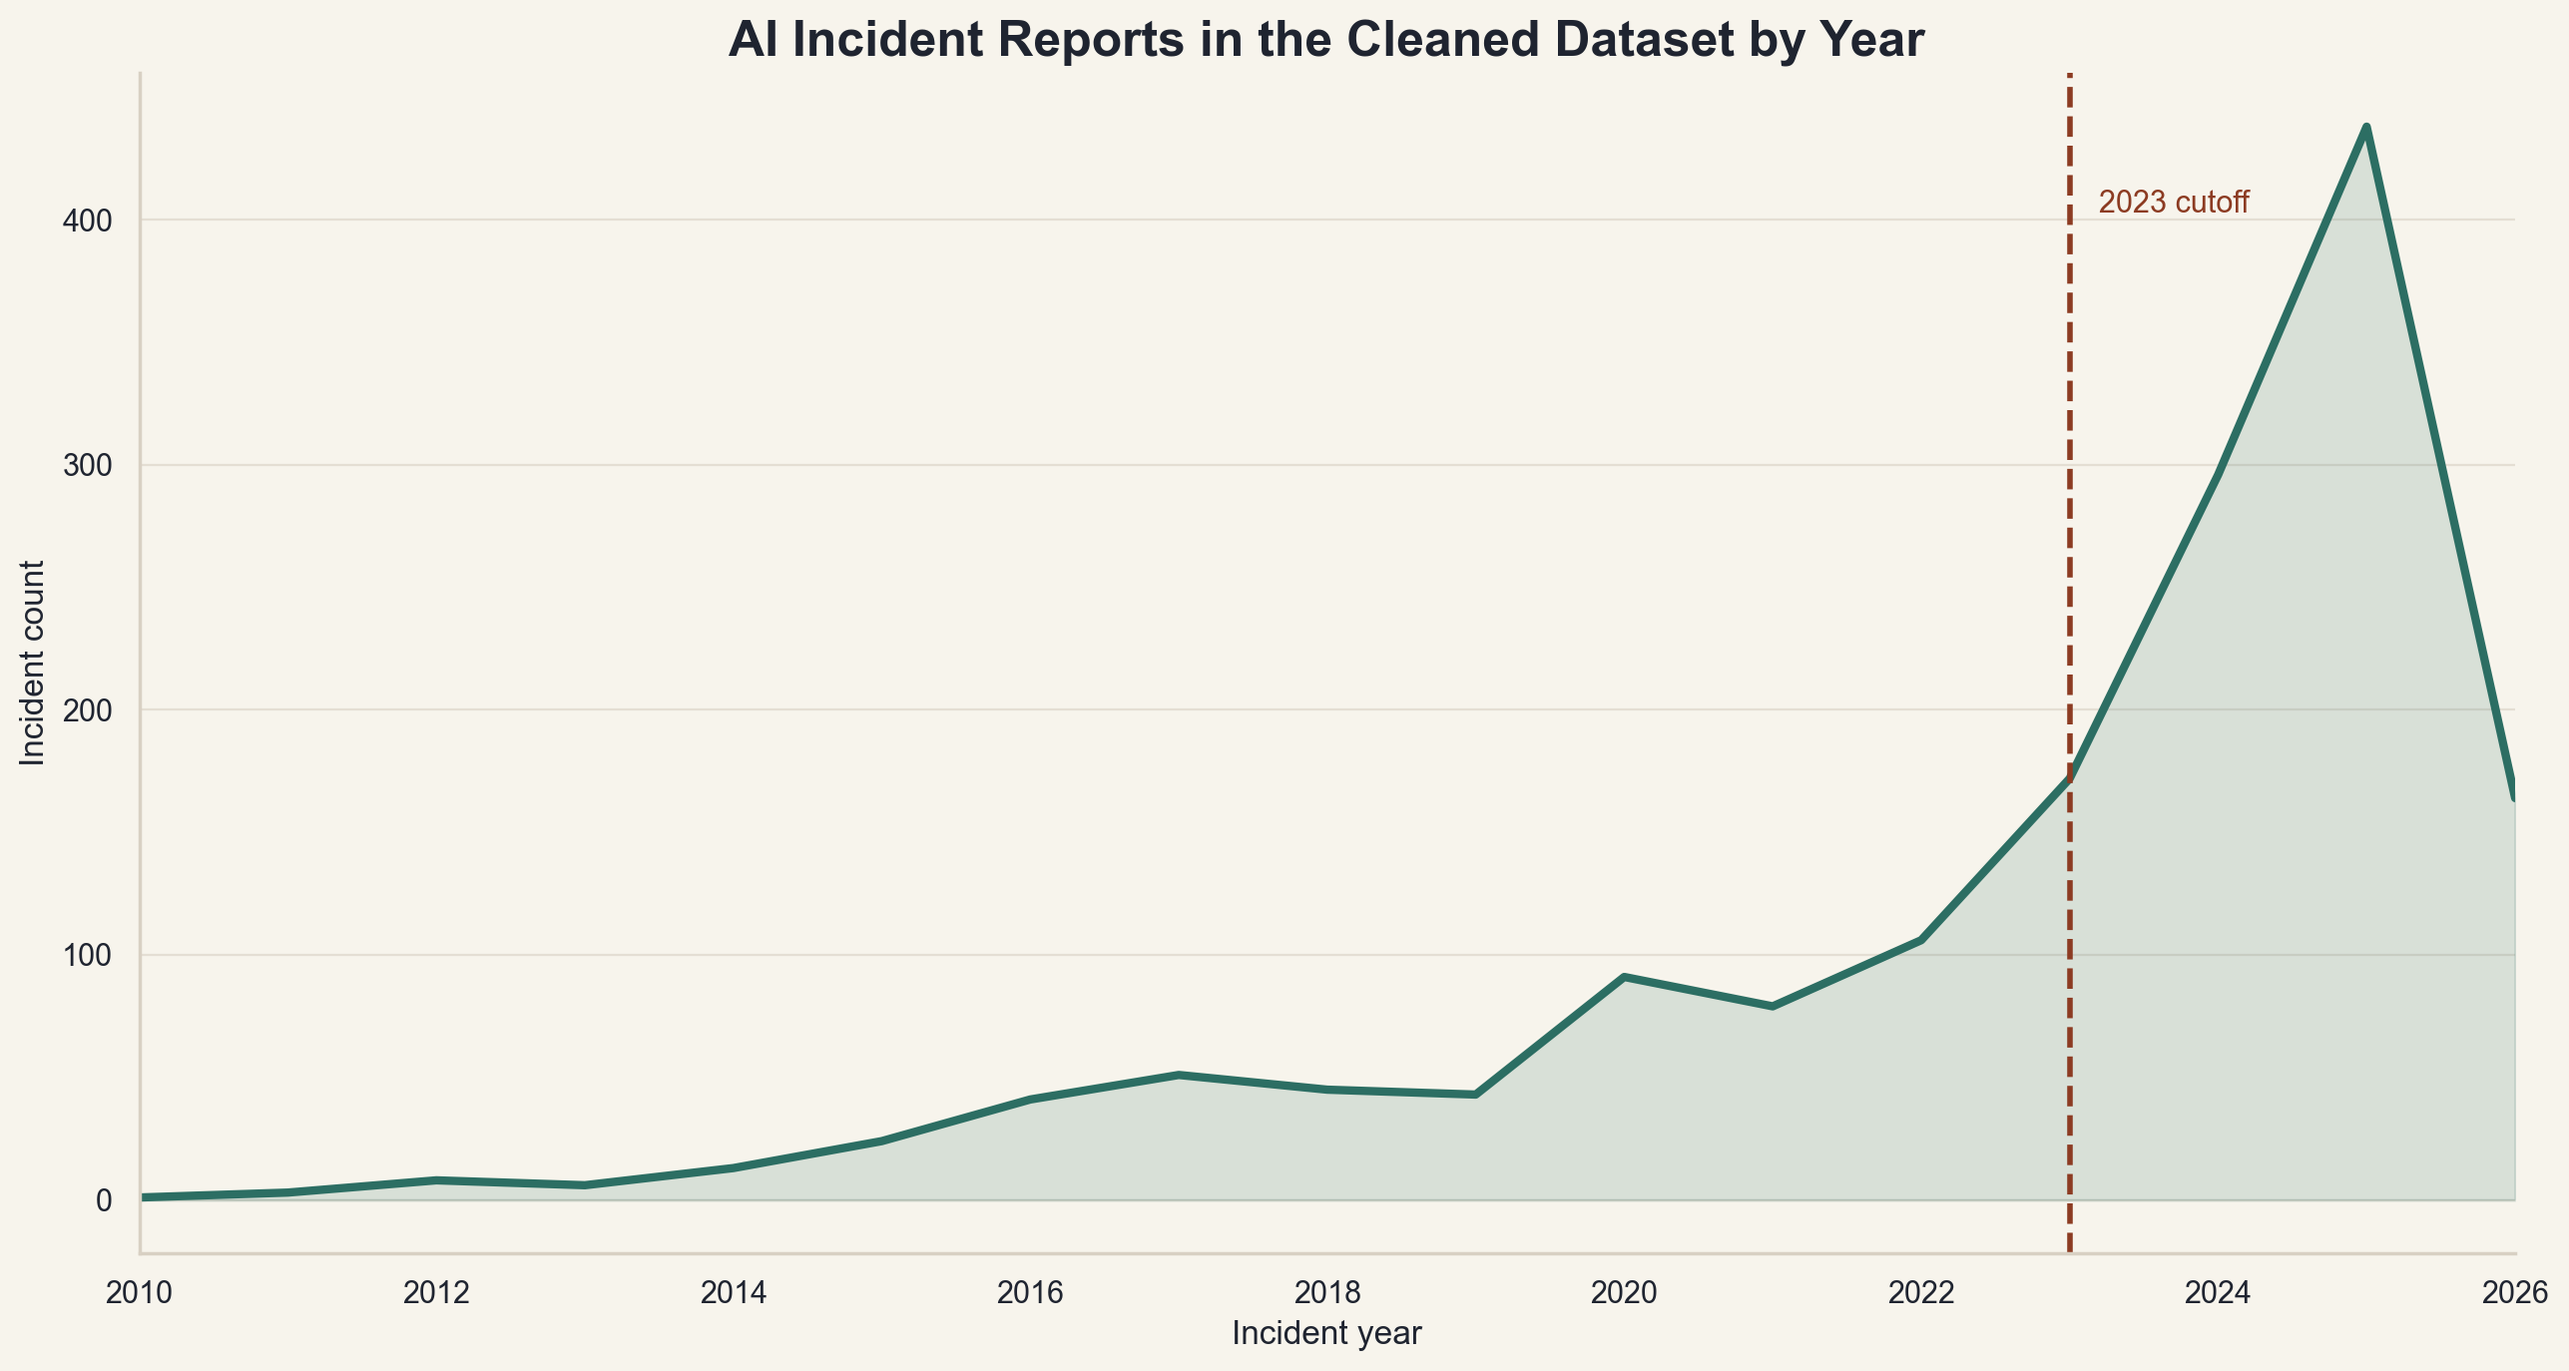
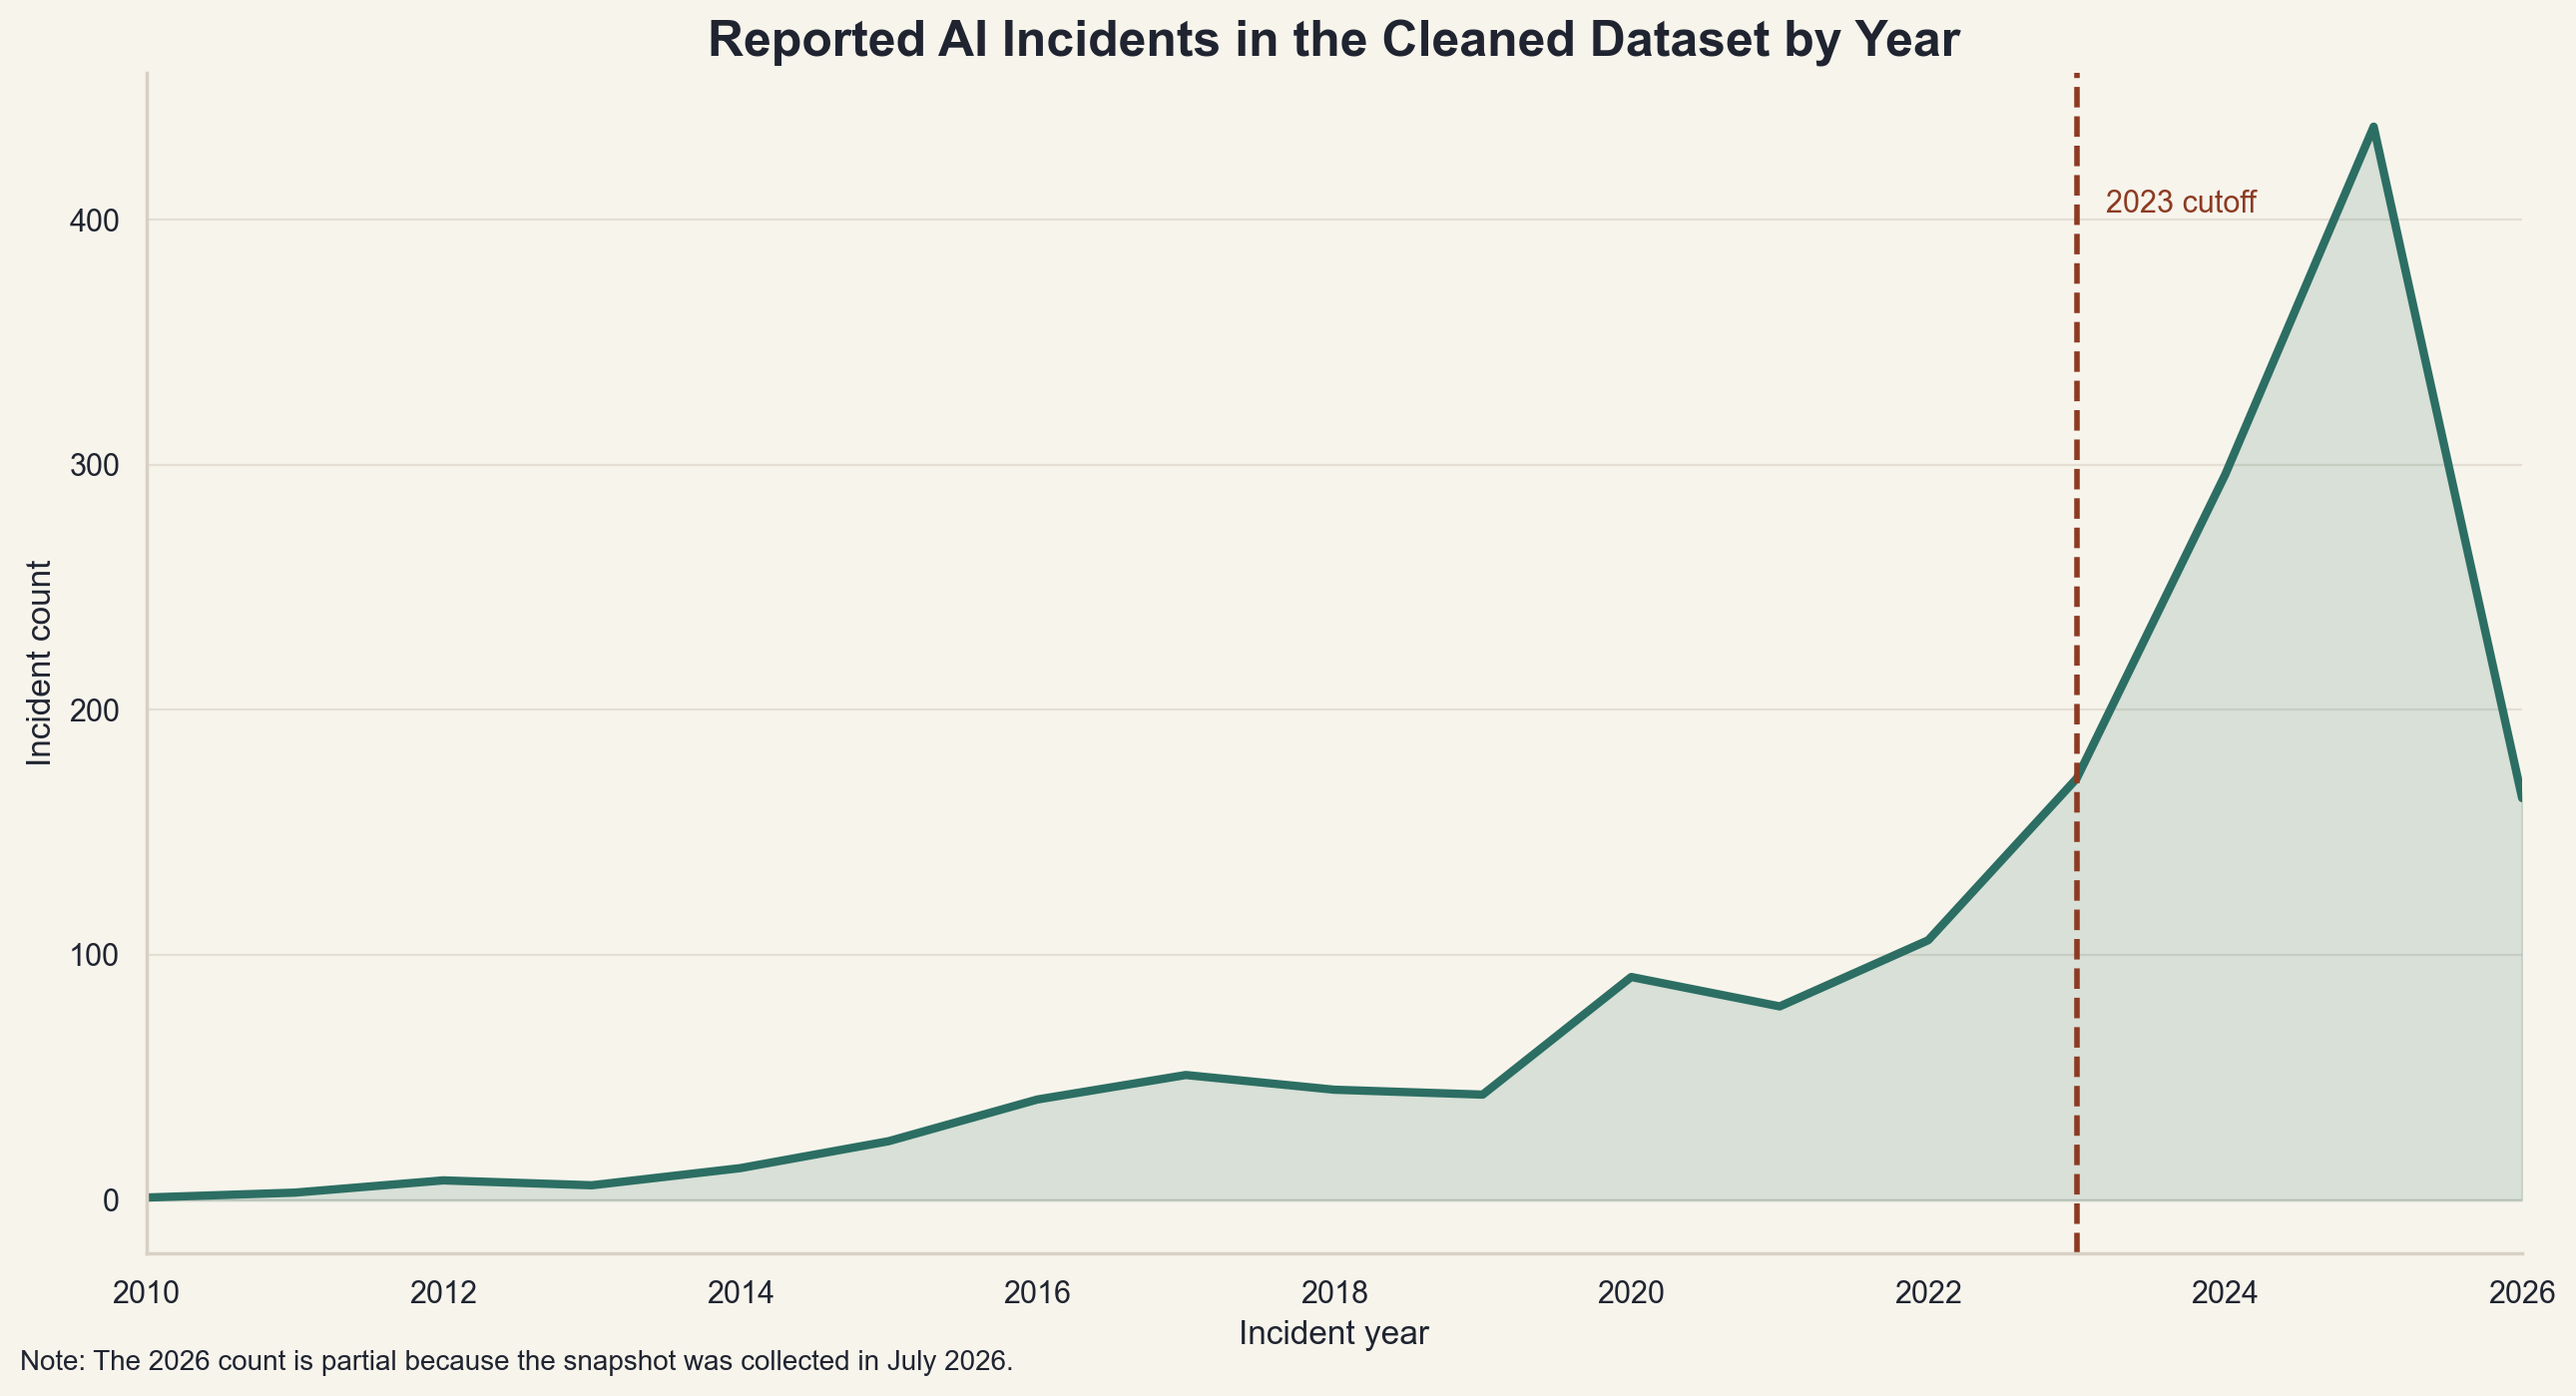
regenerate analysis charts

diff --git a/src/make_charts.py b/src/make_charts.py
@@ -101,7 +101,7 @@ def chart_top_application_areas(application_summary: pd.DataFrame) -> None:
 
     fig, ax = plt.subplots(figsize=(12, 8), dpi=200)
     sns.barplot(data=chart_data, x="incident_count", y="application_area", color=SECONDARY, ax=ax)
-    ax.set_title("Top Recreated Application Areas\nExcluding 'Other or unclear'")
+    ax.set_title("Top Recreated Primary Application Areas\nExcluding 'Other or unclear'")
     ax.set_xlabel("Incident count")
     ax.set_ylabel("")
     style_axes(ax)
@@ -120,7 +120,7 @@ def chart_top_ethics_issues(ethics_summary: pd.DataFrame) -> None:
 
     fig, ax = plt.subplots(figsize=(12, 8), dpi=200)
     sns.barplot(data=chart_data, x="incident_count", y="ethics_issue", color=ACCENT, ax=ax)
-    ax.set_title("Top Recreated Ethics Issues\nExcluding 'Other or unclear'")
+    ax.set_title("Top Recreated AI Incident Issues\nExcluding 'Other or unclear'")
     ax.set_xlabel("Incident count")
     ax.set_ylabel("")
     style_axes(ax)
@@ -143,11 +143,18 @@ def chart_incidents_by_year(incidents: pd.DataFrame) -> None:
     ax.fill_between(year_counts["incident_year"], year_counts["incident_count"], color=SECONDARY, alpha=0.15)
     ax.axvline(2023, color=ACCENT_DARK, linestyle="--", linewidth=2)
     ax.text(2023.2, year_counts["incident_count"].max() * 0.92, "2023 cutoff", color=ACCENT_DARK, fontsize=11)
-    ax.set_title("AI Incident Reports in the Cleaned Dataset by Year")
+    ax.set_title("Reported AI Incidents in the Cleaned Dataset by Year")
     ax.set_xlabel("Incident year")
     ax.set_ylabel("Incident count")
     ax.set_xlim(year_counts["incident_year"].min(), year_counts["incident_year"].max())
     style_axes(ax)
+    fig.text(
+        0.01,
+        0.01,
+        "Note: The 2026 count is partial because the snapshot was collected in July 2026.",
+        fontsize=10,
+        color=INK,
+    )
     plt.tight_layout()
     fig.savefig(FIGURES_DIR / "incidents_by_year.png", bbox_inches="tight")
     plt.close(fig)
@@ -164,7 +171,7 @@ def chart_pre_post_comparison(pre_post_summary: pd.DataFrame) -> None:
     )
 
     category_order = [
-        "Language/vision model",
+        "Language/vision or generative-AI terms",
         "Misinformation or manipulation",
         "Harmful content",
         "Privacy",
@@ -182,7 +189,7 @@ def chart_pre_post_comparison(pre_post_summary: pd.DataFrame) -> None:
         palette=[GOLD, ACCENT],
         ax=ax,
     )
-    ax.set_title("How the Mix of Incidents Changes After 2023")
+    ax.set_title("How the Mix of Reported Incidents Changes After 2023")
     ax.set_xlabel("")
     ax.set_ylabel("Share of incidents")
     ax.yaxis.set_major_formatter(PercentFormatter())
@@ -190,6 +197,13 @@ def chart_pre_post_comparison(pre_post_summary: pd.DataFrame) -> None:
     ax.legend(title="")
     plt.setp(ax.get_xticklabels(), rotation=18, ha="right")
     annotate_bar_counts(ax, is_horizontal=False, suffix="%")
+    fig.text(
+        0.01,
+        0.01,
+        "Note: Uses a practical 2023 cutoff and a separate language/vision or generative-AI involvement flag.",
+        fontsize=10,
+        color=INK,
+    )
     plt.tight_layout()
     fig.savefig(FIGURES_DIR / "pre_post_genai_comparison.png", bbox_inches="tight")
     plt.close(fig)
@@ -225,9 +239,9 @@ def chart_summary_card(summary_stats: list[str]) -> None:
 
     card_text = [
         ("Total incidents analyzed", total_incidents),
-        ("Top recreated issue", top_issue),
-        ("Top recreated application area", top_app),
-        ("Biggest change after 2023", biggest_change),
+        ("Top recreated issue label", top_issue),
+        ("Top recreated primary application area", top_app),
+        ("Biggest post-2023 shift", biggest_change),
     ]
 
     y = 0.75
@@ -242,10 +256,11 @@ def chart_summary_card(summary_stats: list[str]) -> None:
         0.11,
         "AI harms are not one problem. In this recreated dataset, they show up as misuse,\n"
         "bad performance, privacy issues, discrimination, safety risks, and a sharp post-2023\n"
-        "rise in language/vision and misinformation-style incidents.",
+        "rise in incidents involving language/vision or generative-AI terms.",
         fontsize=13,
         color=INK,
     )
+    ax.text(0.08, 0.05, "2026 is a partial year because the snapshot was collected in July 2026.", fontsize=10, color=INK)
 
     fig.savefig(FIGURES_DIR / "portfolio_summary_card.png", bbox_inches="tight")
     plt.close(fig)
